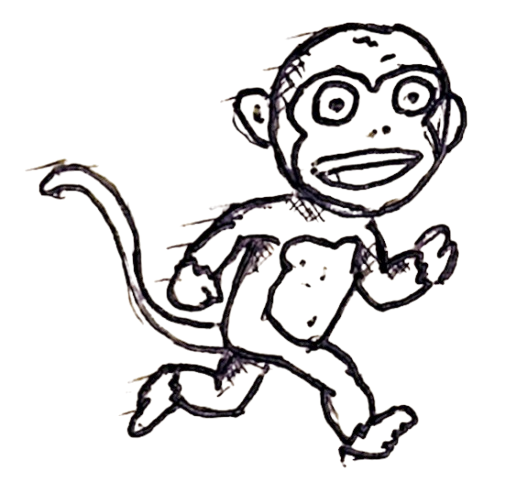
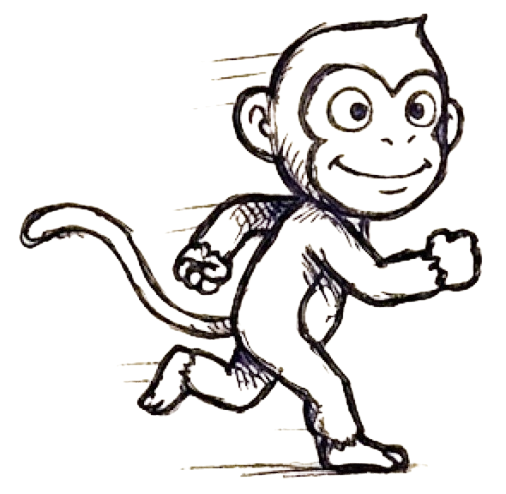
se añaden nuevas animaciones

Changed region(s): [[0.0296, 0.0304, 0.9783, 0.9736]]

diff --git a/src/engine/Player.cpp b/src/engine/Player.cpp
@@ -16,10 +16,32 @@ Player::Player(Renderer* renderer) : currentFrame(0), frameTimer(0), facingLeft(
     // cargamos animaciones
     idleAnim.push_back(res.loadTexture("assets/monoIdle1.png", rawRen));
     idleAnim.push_back(res.loadTexture("assets/monoIdle2.png", rawRen));
+    idleAnim.push_back(res.loadTexture("assets/monoIdle3.png", rawRen));
+    idleAnim.push_back(res.loadTexture("assets/monoIdle4.png", rawRen));
+    idleAnim.push_back(res.loadTexture("assets/monoIdle5.png", rawRen));
+    idleAnim.push_back(res.loadTexture("assets/monoIdle6.png", rawRen));
+    idleAnim.push_back(res.loadTexture("assets/monoIdle7.png", rawRen));
+    idleAnim.push_back(res.loadTexture("assets/monoIdle8.png", rawRen));
+    idleAnim.push_back(res.loadTexture("assets/monoIdle9.png", rawRen));
+    idleAnim.push_back(res.loadTexture("assets/monoIdle10.png", rawRen));
+    idleAnim.push_back(res.loadTexture("assets/monoIdle11.png", rawRen));
+    idleAnim.push_back(res.loadTexture("assets/monoIdle12.png", rawRen));
+    idleAnim.push_back(res.loadTexture("assets/monoIdle13.png", rawRen));
+    idleAnim.push_back(res.loadTexture("assets/monoIdle14.png", rawRen));
+    idleAnim.push_back(res.loadTexture("assets/monoIdle15.png", rawRen));
+    idleAnim.push_back(res.loadTexture("assets/monoIdle16.png", rawRen));
+    idleAnim.push_back(res.loadTexture("assets/monoIdle17.png", rawRen));
+    idleAnim.push_back(res.loadTexture("assets/monoIdle18.png", rawRen));
+    idleAnim.push_back(res.loadTexture("assets/monoIdle19.png", rawRen));
+    idleAnim.push_back(res.loadTexture("assets/monoIdle20.png", rawRen));
 
     runAnim.push_back(res.loadTexture("assets/monoCorriendo1.png", rawRen));
     runAnim.push_back(res.loadTexture("assets/monoCorriendo2.png", rawRen));
     runAnim.push_back(res.loadTexture("assets/monoCorriendo3.png", rawRen));
+    runAnim.push_back(res.loadTexture("assets/monoCorriendo4.png", rawRen));
+    runAnim.push_back(res.loadTexture("assets/monoCorriendo5.png", rawRen));
+    runAnim.push_back(res.loadTexture("assets/monoCorriendo6.png", rawRen));
+    runAnim.push_back(res.loadTexture("assets/monoCorriendo7.png", rawRen));
 
     jumpAnim.push_back(res.loadTexture("assets/monoSaltando1.png", rawRen));
     jumpAnim.push_back(res.loadTexture("assets/monoSaltando2.png", rawRen));
@@ -45,6 +67,7 @@ Player::Player(Renderer* renderer) : currentFrame(0), frameTimer(0), facingLeft(
     attackAnim.push_back(res.loadTexture("assets/monoAtacando1.png", rawRen));
     attackAnim.push_back(res.loadTexture("assets/monoAtacando2.png", rawRen));
     attackAnim.push_back(res.loadTexture("assets/monoAtacando3.png", rawRen));
+    attackAnim.push_back(res.loadTexture("assets/monoAtacando4.png", rawRen));
 
     // Empezamos parados
     currentAnim = &idleAnim;
@@ -119,7 +142,7 @@ void Player::update(float dt) {
         }
         else if (body.vx != 0) {
             nextAnim = &runAnim;
-            animSpeed = 0.4f;
+            animSpeed = 0.2f;
         } else {
             nextAnim = &idleAnim;
             animSpeed = 0.4f;
